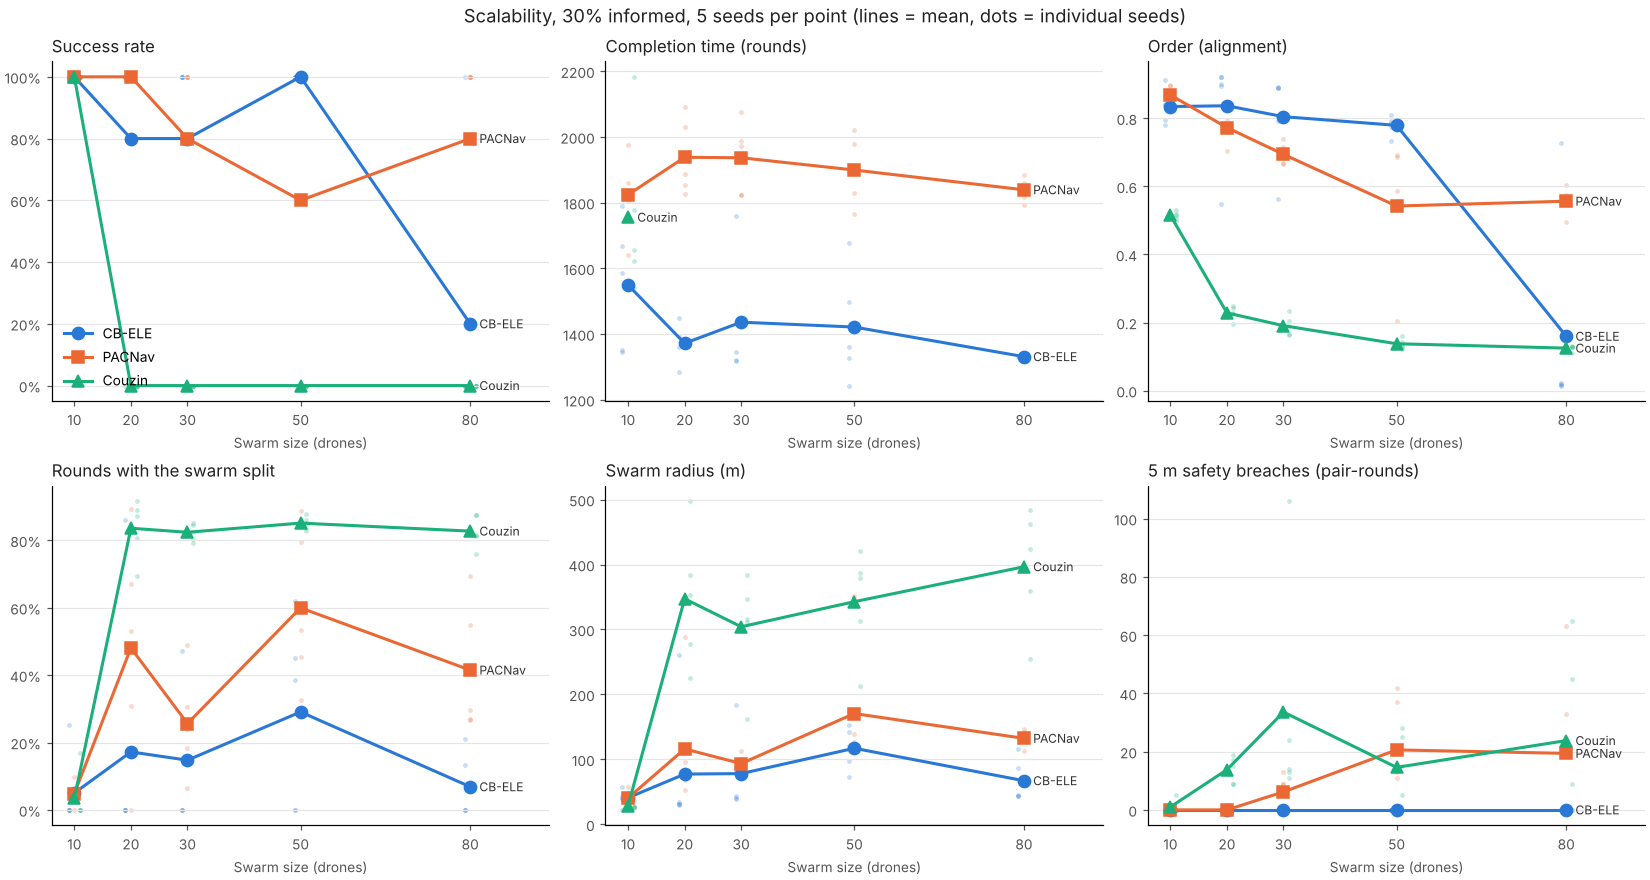
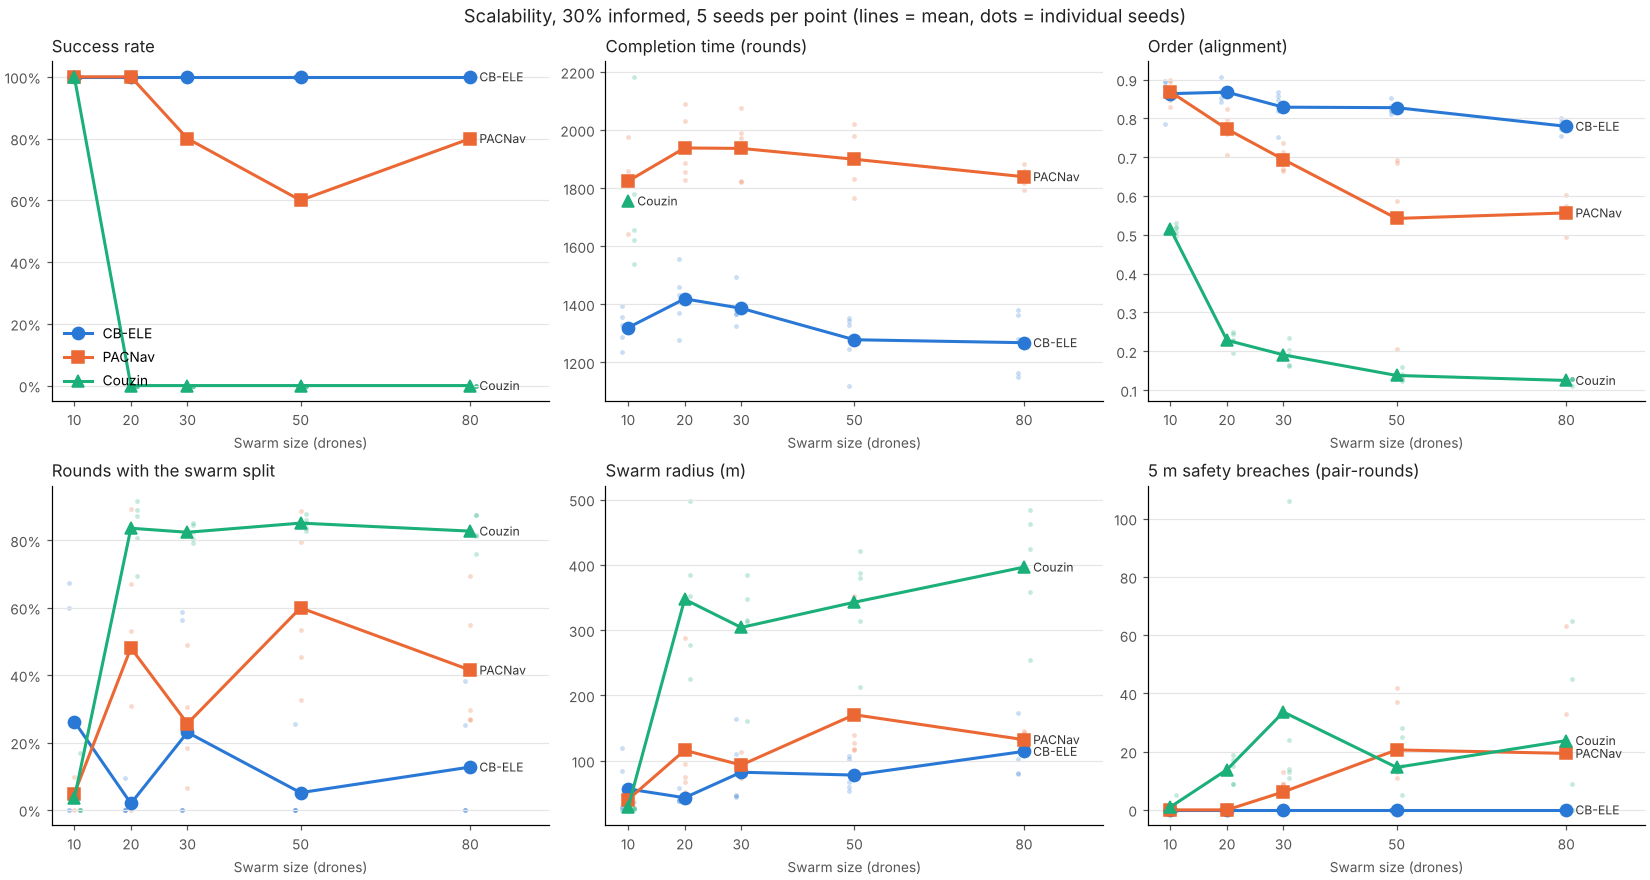
v0.8: only hovering drones count as rivals; scalability re-run
- rival_requires_hover: a touch by a moving drone neither resets a
  candidate's quiet rounds nor holds it in a duel; a duel ends (survive)
  if, one round after contact, no touching drone is hovering
- watchdog_requires_leader: followers arm the "leader lost" watchdog only
  after recognising a leader (cleared on becoming challenger)
- 5-seed scalability, CB-ELE re-run: success 100% at 10-80 drones (80:
  20% -> 100%, order 0.16 -> 0.78), 0 breaches; more splitting at 10 and
  30 drones on some seeds. Baseline rows unchanged.

Claude-Session: https://claude.ai/code/session_01FAaQ7cQEtZvpjDFKWnzbj3

diff --git a/cb_ele.py b/cb_ele.py
@@ -1,6 +1,18 @@
 """CB-ELE v4.4: collision election with mid-run re-election experiment.
 
-Repository version: v0.6.
+Repository version: v0.8.
+
+v0.8
+----
+- Only a hovering drone counts as a rival: touches by moving drones do not
+  reset a candidate's quiet rounds or hold it in a duel (fixes the
+  80-drone launch deadlock).  The challenger watchdog runs only after the
+  follower has recognised a leader.
+
+v0.7
+----
+- Start area grows with N; drones settle inside goal_settle_radius (no new
+  elections at the goal).
 
 v0.6
 ----
@@ -237,6 +249,15 @@ class Config:
     # (no challenger watchdog, candidates/challengers revert to followers)
     # and informed followers stop pushing towards the goal point.  0 = off.
     goal_settle_radius: float = 100.0
+
+    # v0.8: a follower runs the "leader lost" watchdog only after it has
+    # recognised a leader (private flag, cleared when it becomes challenger).
+    # Without recognition ("off") the watchdog behaves as before.
+    watchdog_requires_leader: bool = True
+    # v0.8: only a hovering drone counts as a rival.  Duelling contenders
+    # hover; followers keep moving.  A touch by a moving drone neither
+    # resets a candidate's quiet rounds nor holds it in a duel.
+    rival_requires_hover: bool = True
 
     # Performance knobs ------------------------------------------------------
     hard_safety_iterations: int = 80
@@ -699,6 +720,7 @@ def run_simulation(config=CONFIG, return_trajectory=False):
     observed_speed = np.full(n, config.candidate_speed, dtype=float)
     duel_active = np.zeros(n, dtype=bool)
     duel_timer = np.full(n, np.inf)
+    duel_age = np.zeros(n, dtype=int)               # v0.8
     collision_history = np.zeros((config.collision_window, n), dtype=bool)
     promotion_cooldown = np.zeros(n, dtype=int)     # v4.4
     # v0.3: informed followers; separate RNG keeps the main stream unchanged
@@ -711,6 +733,7 @@ def run_simulation(config=CONFIG, return_trajectory=False):
     # v0.5: behavioural leader recognition state
     score = np.zeros((n, n))                       # score[i, j]: i's view of j
     belief = np.full(n, -1)                        # i's believed leader
+    had_leader = np.zeros(n, dtype=bool)           # v0.8: watchdog armed
     contacts_prev = np.zeros((n, n), dtype=bool)   # contacts at last round start
     hover_prev = np.zeros(n, dtype=bool)           # hovering two motions ago
     recog_precision = np.full(config.rounds, np.nan)
@@ -810,6 +833,7 @@ def run_simulation(config=CONFIG, return_trajectory=False):
             best = masked.argmax(axis=1)
             belief = np.where(masked[np.arange(n), best]
                               >= config.recognition_threshold, best, -1)
+            had_leader |= (state == FOLLOWER) & (belief >= 0)
             followers = state == FOLLOWER
             is_leader = state == LEADER
             sees_leader = followers & (neighbors & is_leader[None, :]).any(axis=1)
@@ -819,18 +843,32 @@ def run_simulation(config=CONFIG, return_trajectory=False):
                 recog_precision[round_number] = correct.sum() / has_belief.sum()
             if sees_leader.any():
                 recog_recall[round_number] = (correct & sees_leader).sum() / sees_leader.sum()
+        # v0.8: rivals are touching drones seen hovering; a contact is new if
+        # that drone was not touching last round.
+        rival_contact = (election_contacts & hovering[None, :]).any(axis=1)
+        new_contact = (election_contacts & ~contacts_prev).any(axis=1)
+        if not config.rival_requires_hover:
+            rival_contact = contact_now.copy()
+            new_contact = contact_now.copy()
         contacts_prev = election_contacts.copy()
         hover_prev = hovering.copy()
         for i in range(n):
             if state[i] in (CANDIDATE, LEADER):
-                if contact_now[i] and not duel_active[i]:
+                if (contact_now[i] and not duel_active[i]
+                        and (new_contact[i] or rival_contact[i])):
                     duel_active[i] = True
+                    duel_age[i] = 0
                     duel_timer[i] = rng.uniform(config.duel_timer_min, config.duel_timer_max)
                     event_log.append((round_number, i, "duel_start"))
-                elif not contact_now[i] and duel_active[i]:
+                elif duel_active[i] and (
+                        not contact_now[i]
+                        or (config.rival_requires_hover and duel_age[i] >= 2
+                            and not rival_contact[i])):
                     duel_active[i] = False
                     duel_timer[i] = np.inf
                     event_log.append((round_number, i, "duel_survive"))
+                if duel_active[i]:
+                    duel_age[i] += 1
 
         duelers = [i for i in range(n)
                    if duel_active[i] and state[i] in (CANDIDATE, LEADER)]
@@ -888,7 +926,7 @@ def run_simulation(config=CONFIG, return_trajectory=False):
                     state[i], confidence[i] = DORMANT, 0
                 elif promotion_cooldown[i] > 0:      # v4.4: ex-leader cooldown
                     confidence[i] = 0
-                elif not contact_now[i] and not duel_active[i]:
+                elif not rival_contact[i] and not duel_active[i]:
                     confidence[i] += 1
                     if confidence[i] >= config.candidate_silent_rounds:
                         state[i], confidence[i] = LEADER, 0
@@ -913,6 +951,8 @@ def run_simulation(config=CONFIG, return_trajectory=False):
                 else:
                     anomalous = (
                         not settled[i]
+                        and (had_leader[i] or not config.watchdog_requires_leader
+                             or config.leader_recognition == "off")
                         and state_age[i] >= config.collision_window
                         and collision_rate[i] >= config.collision_rate_threshold
                         and coherence <= config.challenger_coherence_threshold
@@ -923,6 +963,7 @@ def run_simulation(config=CONFIG, return_trajectory=False):
                         challenger_timer[i] = rng.integers(
                             config.challenger_delay_min, config.challenger_delay_max + 1)
                         anomaly_counter[i] = 0
+                        had_leader[i] = False
                         event_log.append((round_number, i, "challenger_enter"))
             elif previous_state[i] == CHALLENGER:
                 if not has_neighbors:

diff --git a/docs/scalability.md b/docs/scalability.md
@@ -1,6 +1,56 @@
 # Scalability: swarm size 10–80
 
-## v0.7, 5 seeds per size
+## v0.8, 5 seeds per size (current)
+
+**v0.8 fixes the 80-drone launch deadlock described in the v0.7 section below.**
+
+1. **Only a hovering drone counts as a rival** (`rival_requires_hover`).
+   - Duelling contenders hover; followers keep moving.
+   - A touch by a moving drone no longer resets a candidate's quiet rounds.
+   - A duel ends, and the candidate survives, if one round after contact no touching
+     drone is hovering.
+   - This is the fix that matters. In a dense crowd, followers brushing past kept every
+     candidate frozen and its quiet count at zero, so no leader could emerge.
+2. **The "leader lost" watchdog runs only after the follower has recognised a leader**
+   (`watchdog_requires_leader`). This alone did not fix the deadlock: followers mistook
+   duelling candidates for leaders, so the watchdog still fired.
+
+Only CB-ELE was re-run. The baseline code is unchanged, so its rows are the same as in
+v0.7. Per-seed results are in `results/scalability_per_seed.csv` (the v0.7 CB-ELE rows are
+in `results/scalability_v07_per_seed.csv`); the chart is `results/scalability.png`.
+
+| N | Success: CB-ELE / PACNav / Couzin | Median completion: CB-ELE / PACNav | Order: CB-ELE / PACNav | Rounds split: CB-ELE / PACNav | CB-ELE: one leader at end |
+|---|---|---|---|---|---|
+| 10 | **100%** / 100% / 100% | **1328** / 1834 | 0.86 / 0.87 | 26% / **5%** | 100% |
+| 20 | **100%** / 100% / 0% | **1432** / 1888 | **0.87** / 0.77 | **2%** / 48% | 100% |
+| 30 | **100%** / 80% / 0% | **1368** / 1973 | **0.83** / 0.69 | **23%** / 26% | 100% |
+| 50 | **100%** / 60% / 0% | **1329** / 1905 | **0.83** / 0.54 | **5%** / 60% | 100% |
+| 80 | **100%** / 80% / 0% | **1280** / 1839 | **0.78** / 0.56 | **13%** / 42% | 100% |
+
+CB-ELE breached the 5 m limit 0 times at every size, during the mission and after arrival.
+
+**CB-ELE, v0.7 → v0.8:**
+
+| N | Success | Order | Rounds split | Single-leader share |
+|---|---|---|---|---|
+| 10 | 100% → 100% | 0.83 → 0.86 | 5% → **26%** (worse) | 85% → **68%** (worse) |
+| 20 | 80% → **100%** | 0.84 → 0.87 | 17% → **2%** | 65% → **91%** |
+| 30 | 80% → **100%** | 0.81 → 0.83 | 15% → **23%** (worse) | 91% → **74%** (worse) |
+| 50 | 100% → 100% | 0.78 → 0.83 | 29% → **5%** | 64% → **74%** |
+| 80 | 20% → **100%** | 0.16 → **0.78** | 7% → 13% | 21% → **65%** |
+
+**Findings.**
+- CB-ELE now succeeds in every run at every size (25 of 25). It is the fastest method at
+  every size, flat at about 1300–1430 rounds, and the best aligned from 20 drones up.
+- The trade-off is that because moving drones no longer hold candidates back, more
+  candidates promote themselves. On some seeds this gives longer periods with several
+  leaders and more splitting: 2 of 5 seeds at 10 and at 30 drones are split for about
+  56–67% of rounds.
+- With 5 seeds a success rate moves in steps of 20%. These are trends.
+- The main 100-seed benchmark (30 drones, `results/comparison_*.csv`) was run before v0.7
+  and v0.8, so it does not include these changes.
+
+## v0.7, 5 seeds per size (superseded)
 
 **Command:**
 `python compare.py --seeds 5 --rounds 3000 --sizes 10,20,30,50,80 --informed 0.3 --prefix scalability`,

diff --git a/README.md b/README.md
@@ -1,10 +1,12 @@
 # CB-ELE — Collision-Based Leader Election for GPS/communication-denied UAV swarms
 
-Current version **v0.6** (simulator CB-ELE v4.4: collision election,
+Current version **v0.8** (simulator CB-ELE v4.4: collision election,
 mid-distance re-election experiment, follower catch-up boost).
 
 | version | changes |
 |---|---|
+| v0.8 | only hovering drones count as rivals (fixes election deadlock in dense swarms); watchdog armed only after a leader was recognised |
+| v0.7 | start area grows with swarm size; no new elections at the goal |
 | v0.6 | leader recognition also uses slowness (the leader waits for the swarm): recall 0.50 → 0.88 |
 | v0.5 | behavioural leader recognition: followers infer and follow the leader from observed protocol behaviour ([details](docs/leader_recognition.md)) |
 | v0.4 | fully local duel resolution (no central arbitration, no global leader count) |
